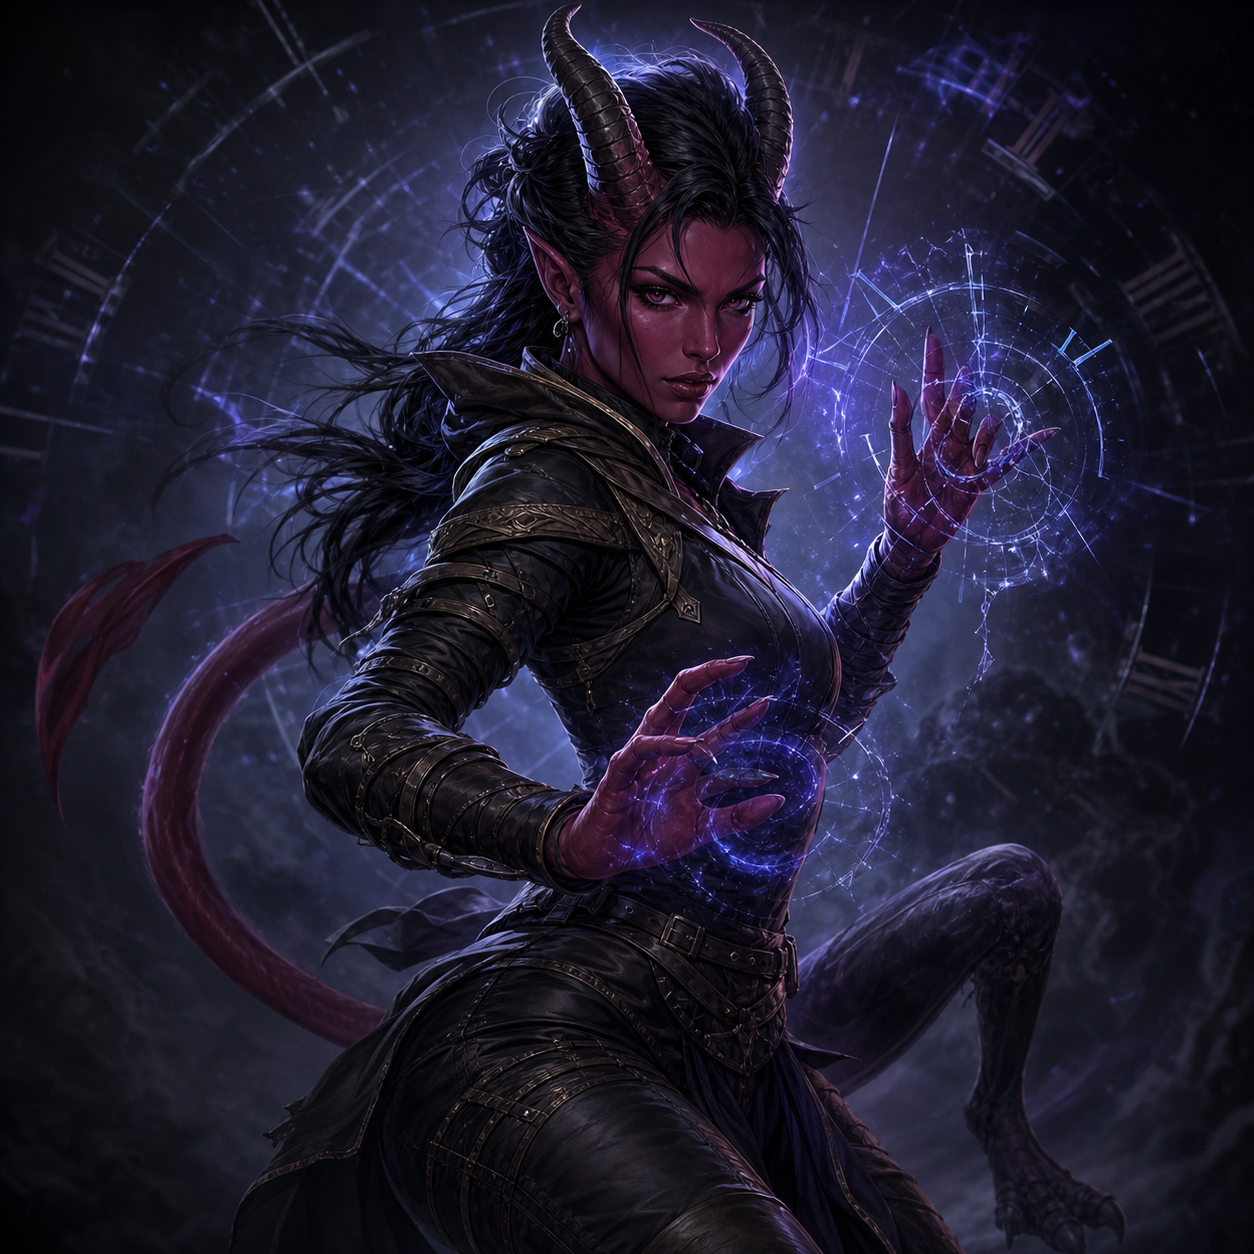
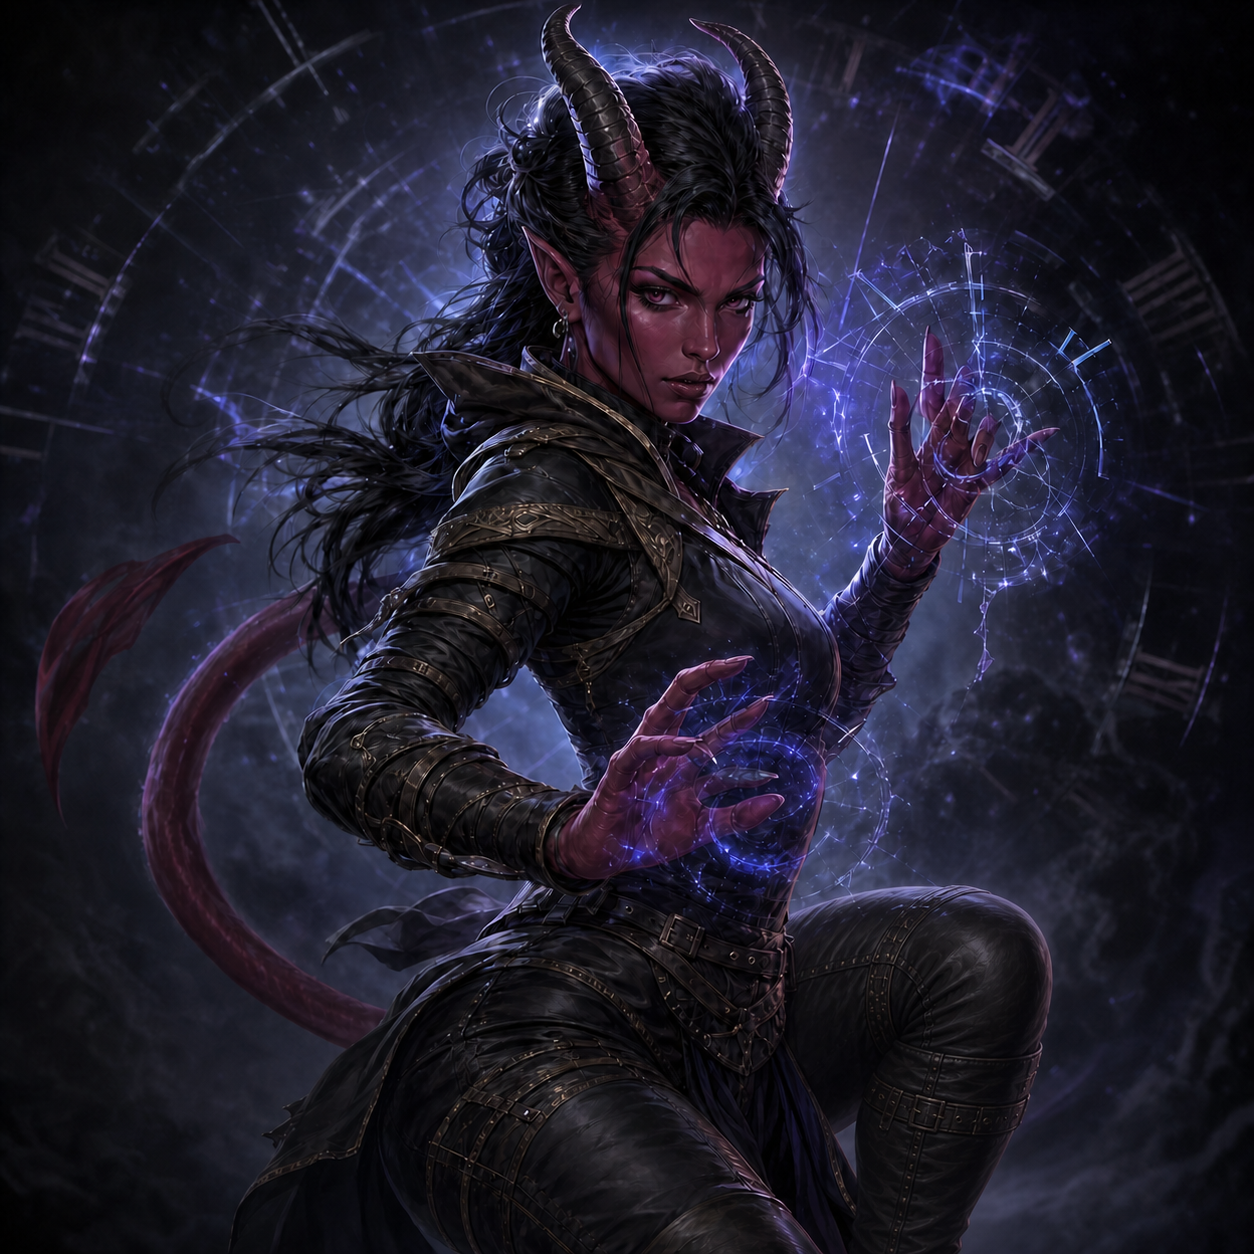
Fix player token framing and size

diff --git a/tools/sync_drawsteel_campaign.py b/tools/sync_drawsteel_campaign.py
@@ -96,6 +96,8 @@ CAPITAL_OBJECT_ASSET_ID = str(
 )
 TOKEN_LIBRARY_ID = str(uuid.uuid5(SYNC_NAMESPACE, "image-library:campaign-tokens"))
 MAP_LIBRARY_ID = str(uuid.uuid5(SYNC_NAMESPACE, "image-library:campaign-maps"))
+PLAYER_TOKEN_FRAME_ID = "ac7e5d6a-bddf-43c3-83ee-f962e7094076"
+PLAYER_CREATURE_SIZE_INDEX = 2  # Draw Steel 1M: one 5-foot tactical square.
 
 
 def stable_id(label: str) -> str:
@@ -440,8 +442,11 @@ def main() -> None:
     token_library: dict[str, dict] = {}
     for name, spec in HEROES.items():
         art_path = REPO / spec["art"]
+        # Draw Steel image type 1 is Avatar, which uses portraitFrameId as a
+        # clipping mask on tactical tokens. Type 3 is AvatarPopout and bypasses
+        # the normal framed-token material, leaving square, oversized art.
         asset_id, metadata, cache_path = asset_for(
-            art_path, 3, name.lower().replace(" ", "-")
+            art_path, 1, name.lower().replace(" ", "-")
         )
         images[asset_id] = metadata
         token_library[asset_id] = {"assetid": asset_id}
@@ -453,6 +458,11 @@ def main() -> None:
         desired = json.loads(json.dumps(token))
         desired.setdefault("appearance", {})["portraitId"] = asset_id
         desired["appearance"]["offtokenPortraitId"] = asset_id
+        desired["appearance"]["portraitFrameId"] = PLAYER_TOKEN_FRAME_ID
+        desired["appearance"]["tokenScaling"] = 1
+        desired["appearance"]["tokenZoom"] = 1
+        desired["appearance"]["portraitOffset"] = {"x": 0, "y": 0}
+        desired["size"] = PLAYER_CREATURE_SIZE_INDEX
         desired["ownerId"] = "PARTY"
         desired["partyid"] = PLAYERS_PARTY_ID
         properties = desired.get("properties", {})
@@ -515,7 +525,7 @@ def main() -> None:
     libraries = {
         TOKEN_LIBRARY_ID: {
             "name": "Uncle HT Campaign Tokens",
-            "imageType": 3,
+            "imageType": 1,
             "gmonly": False,
             "hidden": False,
             "table": token_library,
@@ -808,6 +818,33 @@ def main() -> None:
             .get(spec["level3Choice"]["guid"], {})
             .get("1")
             == spec["level3Choice"]["id"]
+            for spec in HEROES.values()
+        ),
+        "all Players use one-square circular tokens": all(
+            after.get("characters", {})
+            .get(spec["id"], {})
+            .get("appearance", {})
+            .get("portraitFrameId")
+            == PLAYER_TOKEN_FRAME_ID
+            and after.get("characters", {})
+            .get(spec["id"], {})
+            .get("appearance", {})
+            .get("tokenScaling")
+            == 1
+            and after.get("characters", {})
+            .get(spec["id"], {})
+            .get("size")
+            == PLAYER_CREATURE_SIZE_INDEX
+            and after.get("assets", {})
+            .get("images", {})
+            .get(
+                stable_id(
+                    f"image:{Path(spec['art']).as_posix()}"
+                ),
+                {},
+            )
+            .get("imageType")
+            == 1
             for spec in HEROES.values()
         ),
         "legacy entities removed": not remaining_legacy,
